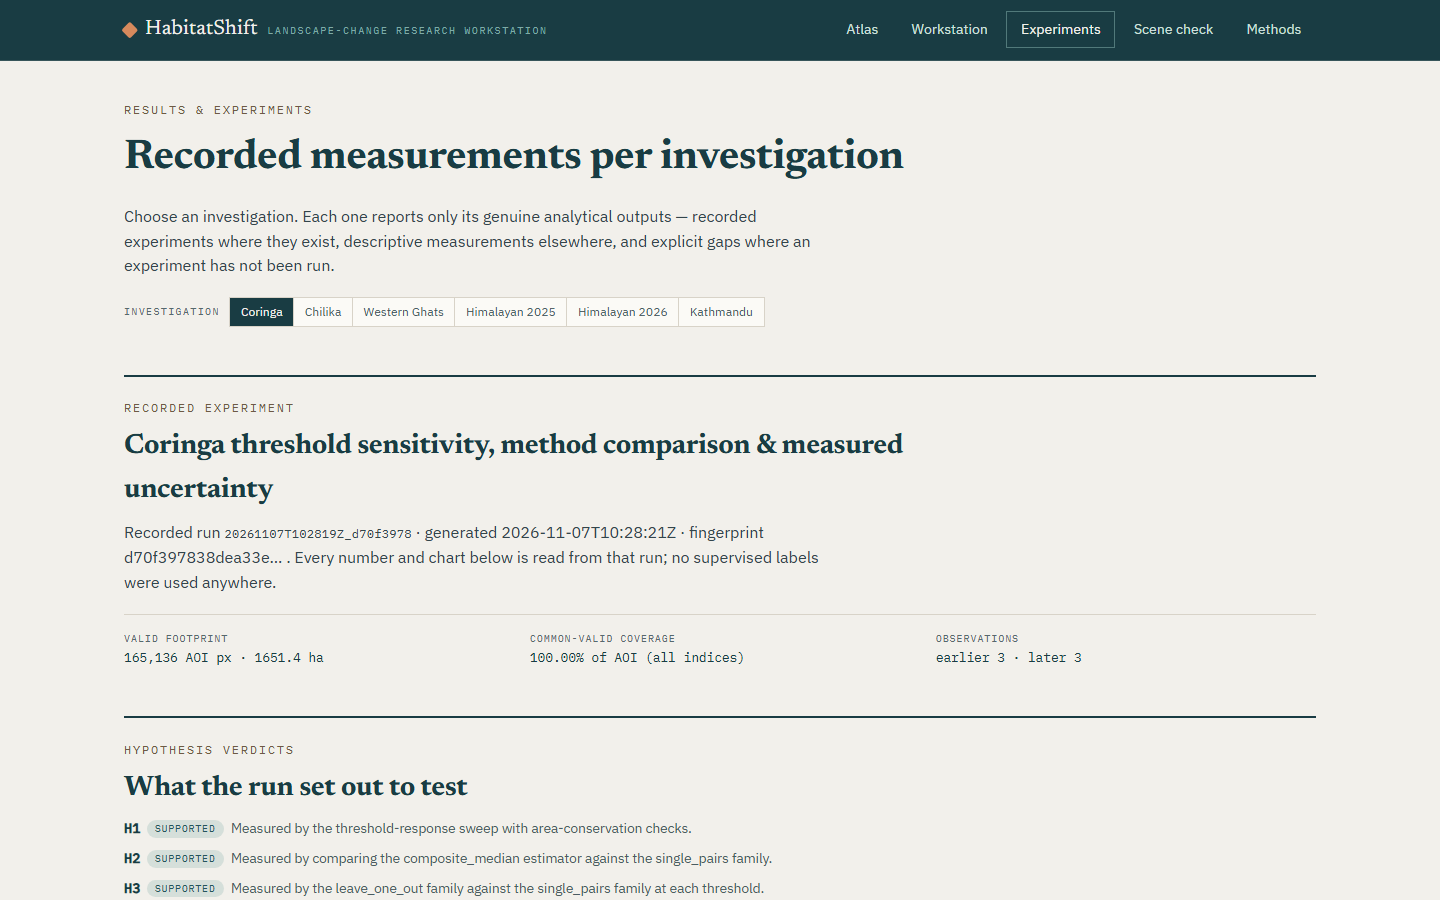
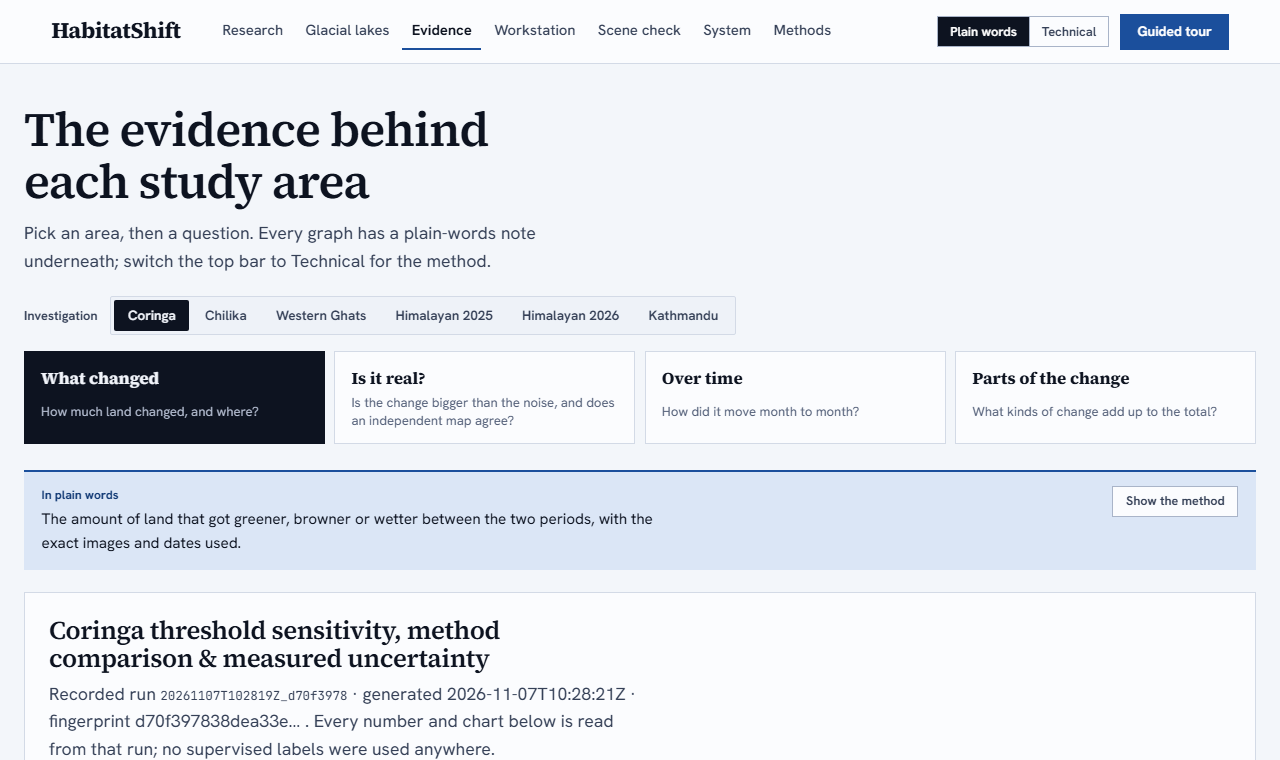
Refresh demo GIF and stills from current build; update README names
Re-record demo.gif from the current frontend (landing, Chilika swipe,
Change and Quality layers, analysis dock, Evidence page). Refresh the
landing, workstation, evidence and research stills to match.

README: add a Screens section, caption the demo, rename the Experiments
and Your own area references to Evidence and Scene check, and rewrap a
broken Limitations bullet.

diff --git a/README.md b/README.md
@@ -12,7 +12,10 @@ signed NDVI baseline; on glacial lakes they beat the water index but not plain r
 Paper draft: [`docs/paper/v3/`](docs/paper/v3/) (LaTeX source and a PDF preview). Live demo: not hosted yet; run the
 static site locally (below).
 
-![HabitatShift demo: swipe comparison, change layer, quality layer, analysis dock, experiments](docs/screenshots/demo.gif)
+![HabitatShift demo: swipe comparison, change layer, quality layer, analysis dock, evidence page](docs/screenshots/demo.gif)
+
+*The demo above is recorded from the current build: landing page, Chilika Lake swipe, Change and Quality layers, the
+analysis dock, then the Evidence page.*
 
 ## Why this project exists
 
@@ -27,11 +30,20 @@ They show where optical imagery fails. The natural next step is radar (Sentinel-
 
 | Question | How it is answered | Where to see it |
 |---|---|---|
-| What changed between two seasons? | Index differences (NDVI, NDWI/MNDWI, NDBI, NDSI) on a shared valid footprint, with threshold sweeps | Workstation, Experiments |
-| Is the change bigger than noise? | Per-pixel scene-to-scene spread gives a standard error; a pixel counts only if the change exceeds it | Experiments, "Is the change bigger than the noise?" |
-| Does it agree with independent data? | Western Ghats NDVI decrease compared with Hansen forest loss (2021-2024) | Experiments (Western Ghats) |
-| Is a two-date comparison misleading? | Monthly series 2020-2026 with a seasonal fit, so the two-date difference can be read against the normal yearly swing | Experiments (Kathmandu, Western Ghats) |
-| Can I try my own area? | Draw a box (0.2-6 km2), pick two dates, run the same engine; one run at a time, about 2 minutes | "Your own area" page (needs the local backend) |
+| What changed between two seasons? | Index differences (NDVI, NDWI/MNDWI, NDBI, NDSI) on a shared valid footprint, with threshold sweeps | Workstation, Evidence |
+| Is the change bigger than noise? | Per-pixel scene-to-scene spread gives a standard error; a pixel counts only if the change exceeds it | Evidence, "Is the change bigger than the noise?" |
+| Does it agree with independent data? | Western Ghats NDVI decrease compared with Hansen forest loss (2021-2024) | Evidence (Western Ghats) |
+| Is a two-date comparison misleading? | Monthly series 2020-2026 with a seasonal fit, so the two-date difference can be read against the normal yearly swing | Evidence (Kathmandu, Western Ghats) |
+| Can I try my own area? | Draw a box (0.2-6 km2), pick two dates, run the same engine; one run at a time, roughly 1-2 minutes | Scene check (needs the local backend) |
+
+## Screens
+
+| Landing page | Workstation, Change layer |
+|---|---|
+| <img src="docs/screenshots/01_landing.png" alt="Landing page" width="480"> | <img src="docs/screenshots/03_workstation_chilika.png" alt="Chilika Lake, change layer" width="480"> |
+| **Landing page: two paths, plain-words switch** | **Workstation: Chilika Lake change layer** |
+| <img src="docs/screenshots/06_experiments.png" alt="Evidence page" width="480"> | <img src="docs/screenshots/10_research_mode_ml.png" alt="Research page" width="480"> |
+| **Evidence: every graph per study area** | **Research: forest loss and glacial lakes against references** |
 
 ## Findings worth knowing
 
@@ -43,7 +55,8 @@ They show where optical imagery fails. The natural next step is radar (Sentinel-
   indicative. Agreement with another satellite product, not ground truth.
 - **Time series.** Kathmandu NDVI drift is about zero (-0.0007 per year, 95% interval -0.0035 to +0.0020), the
   full seasonal swing is about 0.10 peak to peak, and the two-date difference (-0.066) is smaller than that swing, so
-  a two-date reading alone cannot separate it from normal seasonal variation. Western Ghats: drift also about zero; two-date difference +0.001.
+  a two-date reading alone cannot separate it from normal seasonal variation. Western Ghats: drift also about zero;
+  two-date difference +0.001.
 - **Resolution.** Re-running at 20 m changes urban Kathmandu and snowy Purepu results by up to a few percentage
   points; Western Ghats barely moves.
 - **Maps look soft because the data is 10 m.** Kathmandu is 201 x 225 pixels. Colour images are enlarged with a sharper
@@ -72,12 +85,11 @@ Full tables: [`docs/RESULTS.md`](docs/RESULTS.md). What changed in version 2: [`
 - No ground-truth field data. Every reference (Hansen, radar water frequency, optical masks) is another satellite
   product, so scores are agreement, not accuracy.
 - Five forest areas (three picked by a label-only search for active clearing) and effectively one changing lake do not
-  settle the research question. Urban and wetland fields are
-  not tested (they need Earth Engine reference data), and foundation models were compared as frozen embeddings, not
-  fine-tuned.
+  settle the research question. Urban and wetland fields are not tested (they need Earth Engine reference data), and
+  foundation models were compared as frozen embeddings, not fine-tuned.
 - The radar U-Net learns from optical labels, which under-detect turbid, icy water, and its conformal area intervals fail
   badly for a few lakes (see `docs/V3_RESULTS.md`).
-- Custom-area runs are descriptive, small and run locally; there is no hosted service.
+- Scene check runs on a custom area are descriptive, small and run locally; there is no hosted service.
 - The paper has not been submitted anywhere; references need a final check before submission.
 
 ## Run it
@@ -117,7 +129,8 @@ cd frontend; npm run build                # type-checks and builds
 ```
 
 Independent audits live in [`verification/`](verification/) and re-derive results without importing production
-code; browser suites are in `tools/visual/`. Setup details: [`docs/SETUP_GUIDE.md`](docs/SETUP_GUIDE.md).
+code; browser suites are in `tools/visual/`. The demo GIF frames come from `tools/visual/capture_demo_gif_frames.mjs`
+(Playwright, run against a started backend). Setup details: [`docs/SETUP_GUIDE.md`](docs/SETUP_GUIDE.md).
 
 ## Documentation
 
